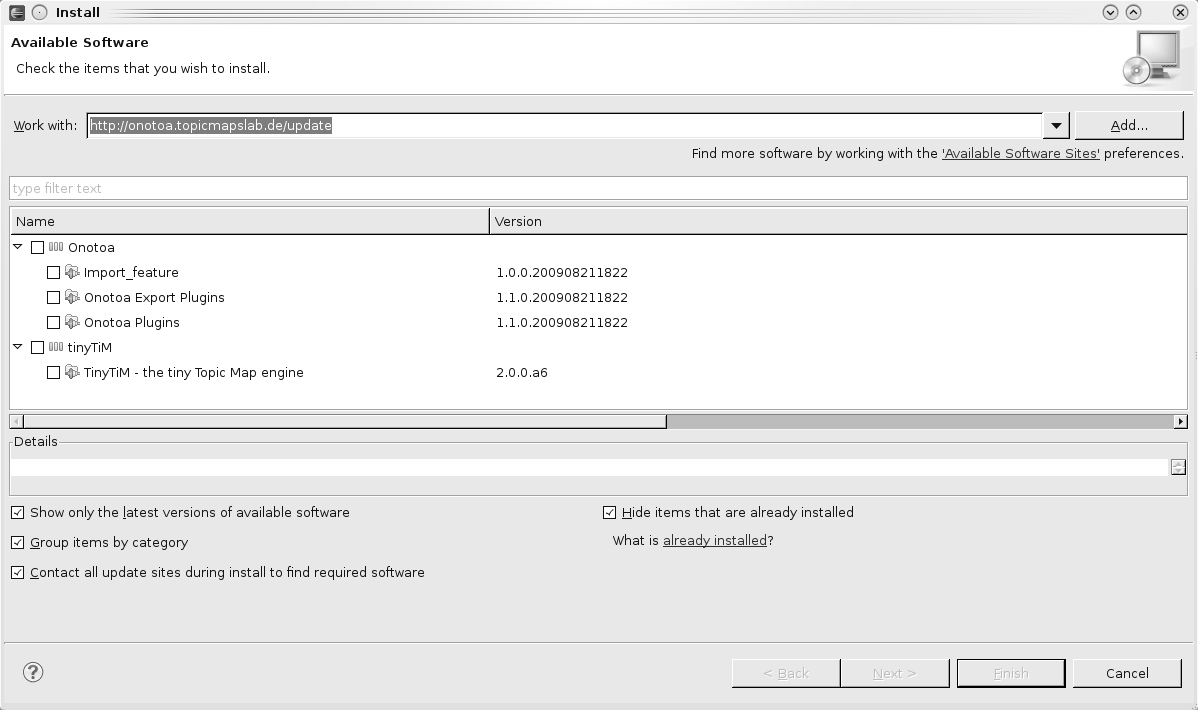
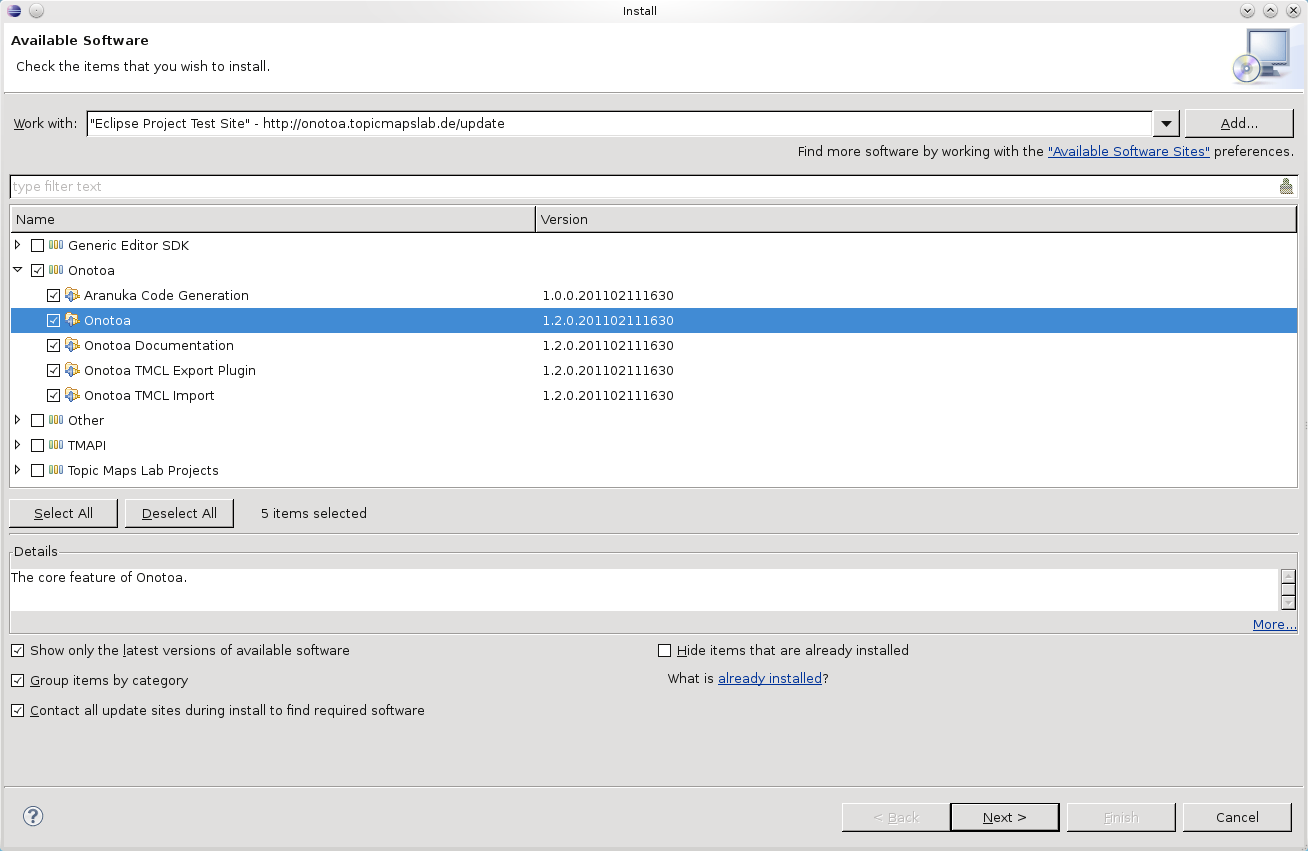
* created composite site project * updated scrrenshot of update manager * all exports check if model exists

diff --git a/de.topicmapslab.onotoa.aranuka.codegen/src/de/topicmapslab/onotoa/aranuka/codegen/Activator.java b/de.topicmapslab.onotoa.aranuka.codegen/src/de/topicmapslab/onotoa/aranuka/codegen/Activator.java
@@ -4,6 +4,9 @@ import org.eclipse.core.runtime.IStatus;
 import org.eclipse.core.runtime.Status;
 import org.eclipse.ui.plugin.AbstractUIPlugin;
 import org.osgi.framework.BundleContext;
+import org.osgi.framework.ServiceReference;
+
+import de.topicmapslab.onotoa.selection.service.IOnotoaSelectionService;
 
 /**
  * The activator class controls the plug-in life cycle
@@ -11,13 +14,16 @@ import org.osgi.framework.BundleContext;
 public class Activator extends AbstractUIPlugin {
 
 	/**
-	 *  The plug-in ID
+	 * The plug-in ID
 	 */
 	public static final String PLUGIN_ID = "de.topicmapslab.onotoa.aranuke.codegen";
 
 	// The shared instance
 	private static Activator plugin;
-	
+
+	// selection service instance
+	private IOnotoaSelectionService selectionService;
+
 	/**
 	 * The constructor
 	 */
@@ -26,7 +32,10 @@ public class Activator extends AbstractUIPlugin {
 
 	/*
 	 * (non-Javadoc)
-	 * @see org.eclipse.ui.plugin.AbstractUIPlugin#start(org.osgi.framework.BundleContext)
+	 * 
+	 * @see
+	 * org.eclipse.ui.plugin.AbstractUIPlugin#start(org.osgi.framework.BundleContext
+	 * )
 	 */
 	public void start(BundleContext context) throws Exception {
 		super.start(context);
@@ -35,7 +44,10 @@ public class Activator extends AbstractUIPlugin {
 
 	/*
 	 * (non-Javadoc)
-	 * @see org.eclipse.ui.plugin.AbstractUIPlugin#stop(org.osgi.framework.BundleContext)
+	 * 
+	 * @see
+	 * org.eclipse.ui.plugin.AbstractUIPlugin#stop(org.osgi.framework.BundleContext
+	 * )
 	 */
 	public void stop(BundleContext context) throws Exception {
 		plugin = null;
@@ -44,19 +56,33 @@ public class Activator extends AbstractUIPlugin {
 
 	/**
 	 * Returns the shared instance
-	 *
+	 * 
 	 * @return the shared instance
 	 */
 	public static Activator getDefault() {
 		return plugin;
 	}
-	
+
 	/**
 	 * logs the given exception as error
-	 * @param e the exception to log
+	 * 
+	 * @param e
+	 *            the exception to log
 	 */
 	public static void logException(Throwable e) {
 		getDefault().getLog().log(new Status(IStatus.ERROR, PLUGIN_ID, "An error occurred:", e));
+	}
+
+	/**
+	 * @return
+	 */
+	public IOnotoaSelectionService getSelectionService() {
+		if (selectionService == null) {
+			BundleContext bc = getBundle().getBundleContext();
+			ServiceReference servRef = bc.getServiceReference(IOnotoaSelectionService.class.getName());
+			selectionService = (IOnotoaSelectionService) bc.getService(servRef);
+		}
+		return selectionService;
 	}
 
 }

diff --git a/de.topicmapslab.tmcledit.export/src/de/topicmapslab/tmcledit/export/wizards/TMCLExportWizardPage.java b/de.topicmapslab.tmcledit.export/src/de/topicmapslab/tmcledit/export/wizards/TMCLExportWizardPage.java
@@ -42,6 +42,7 @@ import org.eclipse.swt.widgets.Table;
 import org.eclipse.swt.widgets.TableColumn;
 import org.eclipse.swt.widgets.Text;
 
+import de.topicmapslab.onotoa.selection.service.IOnotoaSelectionService;
 import de.topicmapslab.tmcledit.export.Activator;
 import de.topicmapslab.tmcledit.export.wizards.TMCLExportWizardPage.FileType.Type;
 
@@ -104,6 +105,22 @@ public class TMCLExportWizardPage extends WizardPage {
 	    return fileName.getText();
     }
 		
+	@Override
+	public boolean isPageComplete() {
+		IOnotoaSelectionService selServ = Activator.getDefault().getSelectionService();
+		if (selServ.getOnotoaFile()==null) {
+			setErrorMessage("No Model Loaded!");
+			return false;
+		}
+		
+		if (fileName.getText().length()==0) {
+			setErrorMessage("No filename set");
+			return false;
+		}
+		setErrorMessage(null);
+		return super.isPageComplete();
+	}
+	
 	public void createControl(Composite parent) {
 	    Composite comp = new Composite(parent, SWT.NONE);
 	    comp.setLayout(new GridLayout(3, false));
@@ -174,6 +191,8 @@ public class TMCLExportWizardPage extends WizardPage {
 	    
 	    hookListeners();
 	    setControl(comp);
+	    
+	    validate();
     }
 
 	/**
@@ -283,6 +302,7 @@ public class TMCLExportWizardPage extends WizardPage {
 				if (file!=null) {
 					file = updateType(file);
 					fileName.setText(file);
+					validate();
 					return;
 				}
 	    	}
@@ -327,6 +347,7 @@ public class TMCLExportWizardPage extends WizardPage {
 				
 				filename = filename+"."+ft.fileSuffix;
 				fileName.setText(filename);
+				validate();
 			}
 
 			
@@ -337,9 +358,25 @@ public class TMCLExportWizardPage extends WizardPage {
 	    	public void focusLost(FocusEvent e) {
 	    		String tmp = getFileName();
 	    		updateType(tmp);
+	    		validate();
 	    	}
 		});
     }
+	
+	private void validate() {
+		IOnotoaSelectionService selServ = Activator.getDefault().getSelectionService();
+		if (selServ.getOnotoaFile()==null) {
+			setErrorMessage("No Model Loaded!");
+			setPageComplete(false);
+		}
+		
+		if (fileName.getText().length()==0) {
+			setErrorMessage("No filename set");
+			setPageComplete(false);
+		}
+		setErrorMessage(null);
+		setPageComplete(true);
+	}
 
 	private FileType findEntry(String key) {
 		for (FileType ft : extensions) {

diff --git a/de.topicmapslab.onotoa.export.maiana/src/de/topicmapslab/onotoa/export/maiana/wizard/MaianaExport.java b/de.topicmapslab.onotoa.export.maiana/src/de/topicmapslab/onotoa/export/maiana/wizard/MaianaExport.java
@@ -53,9 +53,11 @@ public class MaianaExport extends Wizard implements IExportWizard {
 	private class Page extends WizardPage {
 
 		private UploadWidget widget;
+		private IOnotoaSelectionService selServ;
 		
 		protected Page() {
 	        super("Maiana Data");
+	        selServ = Activator.getDefault().getSelectionService();
         }
 
 		@Override
@@ -65,9 +67,20 @@ public class MaianaExport extends Wizard implements IExportWizard {
 	        setControl(widget);
         }
 		
+		@Override
+		public boolean isPageComplete() {
+			
+			if (selServ.getOnotoaFile()==null) {
+				
+				setErrorMessage("No Model Loaded!");
+				return false;
+			}
+		    return super.isPageComplete();
+		}
+		
 		public boolean performFinish() {
 			try {
-				IOnotoaSelectionService selServ = Activator.getDefault().getSelectionService();
+				selServ = Activator.getDefault().getSelectionService();
 				File f = selServ.getOnotoaFile();
 				
 				TMCLTopicMapBuilder builder = new TMCLTopicMapBuilder(f.getTopicMapSchema(), false, false);

diff --git a/de.topicmapslab.onotoa.aranuka.codegen/src/de/topicmapslab/onotoa/aranuka/codegen/wizards/AranukaExportWizard.java b/de.topicmapslab.onotoa.aranuka.codegen/src/de/topicmapslab/onotoa/aranuka/codegen/wizards/AranukaExportWizard.java
@@ -35,6 +35,7 @@ import org.tmapi.core.TopicMap;
 import de.topicmapslab.codegenerator.CodeGenerator;
 import de.topicmapslab.codegenerator.factories.AranukaDescriptorFactory;
 import de.topicmapslab.onotoa.aranuka.codegen.Activator;
+import de.topicmapslab.onotoa.selection.service.IOnotoaSelectionService;
 import de.topicmapslab.tmcledit.export.builder.TMCLTopicMapBuilder;
 import de.topicmapslab.tmcledit.model.TopicMapSchema;
 import de.topicmapslab.tmcledit.model.index.ModelIndexer;
@@ -234,6 +235,12 @@ public class AranukaExportWizard extends Wizard implements IExportWizard {
 		
 		@Override
 		public boolean isPageComplete() {
+			IOnotoaSelectionService selServ = Activator.getDefault().getSelectionService();
+			if (selServ.getOnotoaFile()==null) {
+				setErrorMessage("No Model Loaded!");
+				return false;
+			}
+			
 			File file = new File(sourcePathText.getText());
 			if (!file.isDirectory())
 				return false;

diff --git a/de.topicmapslab.tmcledit.diagram/src/de/topicmapslab/tmcledit/diagram/editor/TMCLEditorActionBarContributor.java b/de.topicmapslab.tmcledit.diagram/src/de/topicmapslab/tmcledit/diagram/editor/TMCLEditorActionBarContributor.java
@@ -102,7 +102,7 @@ public class TMCLEditorActionBarContributor extends ActionBarContributor {
 				return;
 
 			FileDialog dlg = new FileDialog(editor.getSite().getShell(), SWT.SAVE);
-			dlg.setFilterExtensions(new String[] { "*.png", "*.svg", "*.svg;*.png" });
+			dlg.setFilterExtensions(new String[] { "*.svg;*.png", "*.png", "*.svg" });
 			dlg.setText("Save as...");
 			String file = dlg.open();
 			if (file == null)

diff --git a/de.topicmapslab.tmcledit.domaindiagram/src/de/topicmapslab/tmcledit/domaindiagram/editor/DomainEditorActionBarContributor.java b/de.topicmapslab.tmcledit.domaindiagram/src/de/topicmapslab/tmcledit/domaindiagram/editor/DomainEditorActionBarContributor.java
@@ -105,7 +105,7 @@ public class DomainEditorActionBarContributor extends ActionBarContributor {
 				return;
 
 			FileDialog dlg = new FileDialog(getShell(), SWT.SAVE);
-			dlg.setFilterExtensions(new String[] { "*.png", "*.svg", "*.svg;*.png" });
+			dlg.setFilterExtensions(new String[] { "*.svg;*.png", "*.png", "*.svg"});
 			dlg.setText("Save as...");
 			String file = dlg.open();
 			if (file == null)
